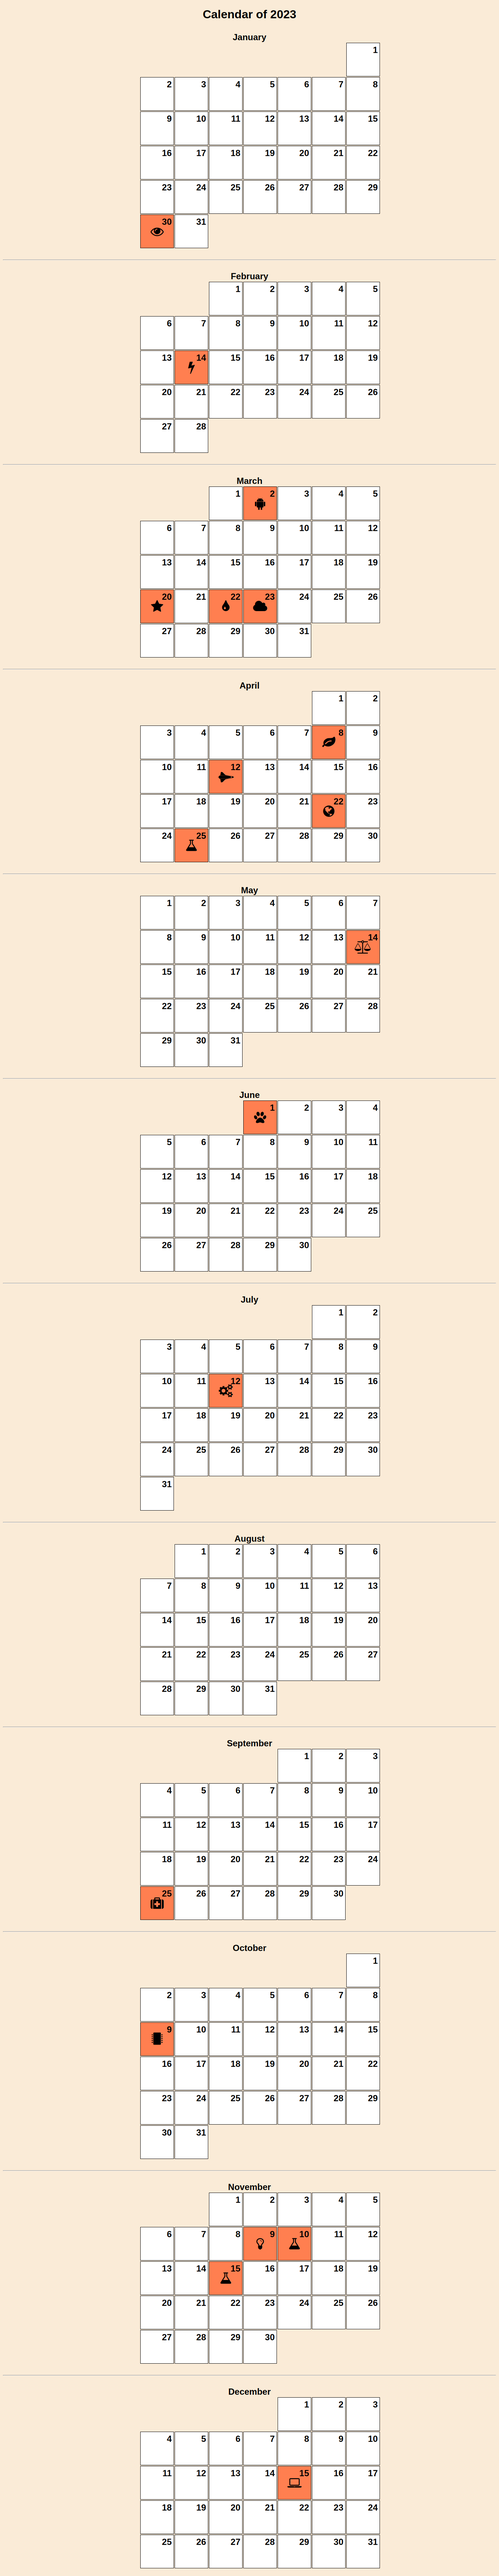
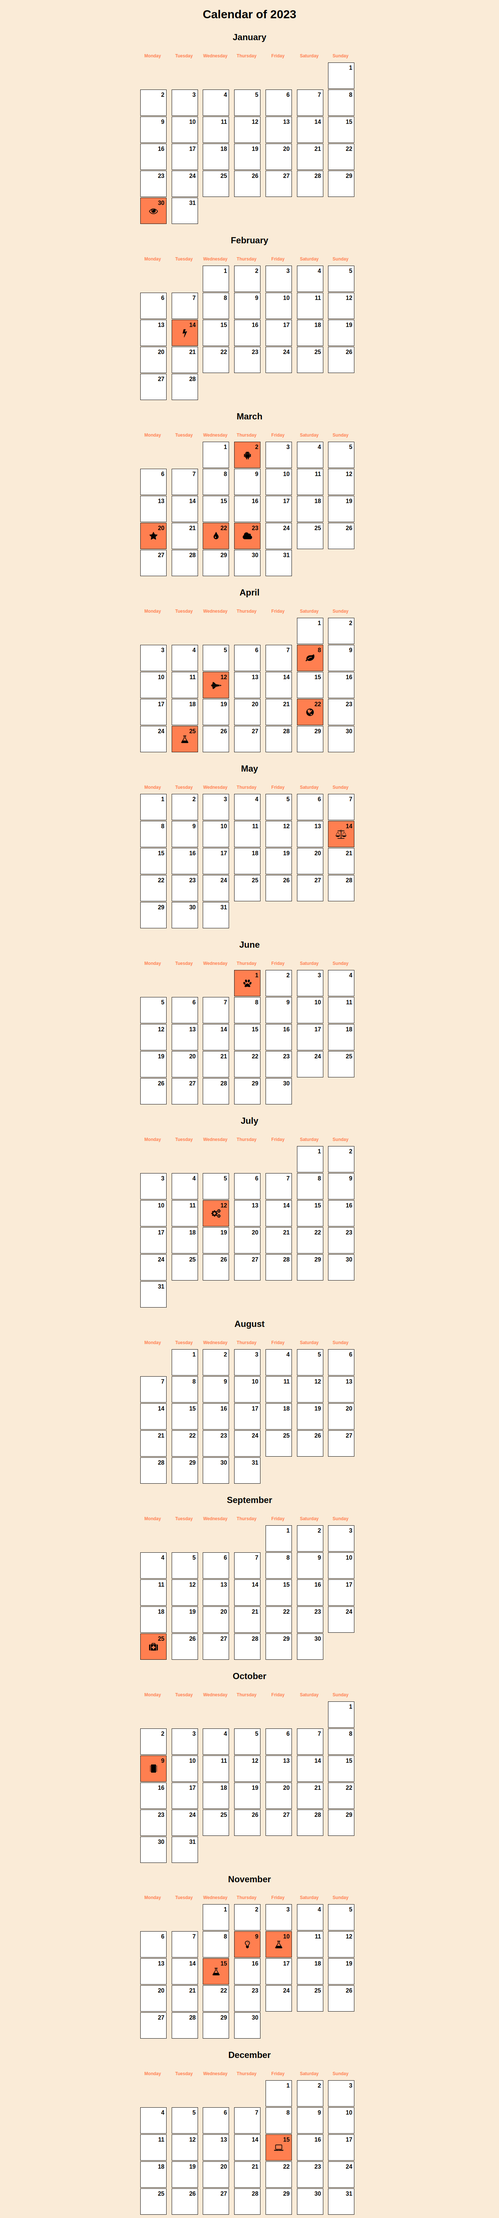
php exercicis

Changed region(s): [[0.2767, 0.0, 0.7687, 1.0]]

diff --git a/unitats/programacio/web/php/04-control-structures-ex-calendar.html b/unitats/programacio/web/php/04-control-structures-ex-calendar.html
@@ -151,6 +151,94 @@
             <vf-img src="assets/unitats/programacio/web/php/03-04-operators-control/calendar06.png"></vf-img>
 
         </vf-content>
+
+        <vf-title level="3">
+            Add icons
+        </vf-title>
+        <vf-content>
+            <vf-text>Now, we're going to add icon in a specific days about science. For do that we need a function get_specialday_from_day with a parameter $date where we receive a date in format dd-mm-yyyy.</vf-text>
+            <vf-text>This functions must has the list below, loop all the list and return the specific list if the date matches. If the loop ends and it has not return nothing, it must returns an empty text ''.</vf-text>
+            <vf-code>
+                $special_days = [
+                ['date' => '22-04-2023', 'icon' => 'fa-globe', 'description' => 'Día de la Tierra'],         
+                ['date' => '20-03-2023', 'icon' => 'fa-star', 'description' => 'Día de la Astronomía'],          
+                ['date' => '08-04-2023', 'icon' => 'fa-leaf', 'description' => 'Día de la Biología'],          
+                ['date' => '25-04-2023', 'icon' => 'fa-flask', 'description' => 'Día del ADN'],           
+                ['date' => '12-04-2023', 'icon' => 'fa-space-shuttle', 'description' => 'Día del Espacio'], 
+                ['date' => '15-12-2023', 'icon' => 'fa-laptop', 'description' => 'Día de la Informática'],        
+                ['date' => '22-03-2023', 'icon' => 'fa-tint', 'description' => 'Día del Agua'],          
+                ['date' => '09-11-2023', 'icon' => 'fa-lightbulb-o', 'description' => 'Día del Inventor'],   
+                ['date' => '10-11-2023', 'icon' => 'fa-flask', 'description' => 'Día del Científico'],          
+                ['date' => '14-02-2023', 'icon' => 'fa-bolt', 'description' => 'Día de la Energía'],          
+                ['date' => '14-05-2023', 'icon' => 'fa-balance-scale', 'description' => 'Día de la Física'], 
+                ['date' => '15-11-2023', 'icon' => 'fa-flask', 'description' => 'Día del Químico'],        
+                ['date' => '25-09-2023', 'icon' => 'fa-medkit', 'description' => 'Día del Medicamento'],       
+                ['date' => '02-03-2023', 'icon' => 'fa-android', 'description' => 'Día del Robot'],     
+                ['date' => '30-01-2023', 'icon' => 'fa-eye', 'description' => 'Día del Holograma'],          
+                ['date' => '23-03-2023', 'icon' => 'fa-cloud', 'description' => 'Día del Clima'],        
+                ['date' => '25-04-2023', 'icon' => 'fa-dna', 'description' => 'Día de la Genética'],          
+                ['date' => '12-07-2023', 'icon' => 'fa-cogs', 'description' => 'Día de la Robótica'],           
+                ['date' => '09-10-2023', 'icon' => 'fa-microchip', 'description' => 'Día de la Nanotecnología'],    
+                ['date' => '01-06-2023', 'icon' => 'fa-paw', 'description' => 'Día del Paleontólogo'],      
+            ];
+            </vf-code>
+            <vf-text>After that, in function show_days_month when we loop each day in a month, we must check with the above function if it is a special day. If it is you must do two things: add an extra class for the div of the day (special_day) and add an icon with the property icon of the special day:</vf-text>
+            <vf-code>
+                &lt;!-- You must upload DESCRIPTION with description of the special day and EXTRA_CLASS with the property icon--&gt;
+                &lt;i title='DESCRIPTION' class='icon_day fa EXTRA_CLASS'&gt;&lt;/i&gt;
+
+                &lt;!-- Remember to add this new line to head --&gt;
+                &lt;link rel="stylesheet" href="https://cdnjs.cloudflare.com/ajax/libs/font-awesome/4.7.0/css/font-awesome.min.css"&gt;
+            </vf-code>
+            <vf-img src="assets/unitats/programacio/web/php/03-04-operators-control/calendar07.png"></vf-img>
+
+        </vf-content>
+
+        <vf-title level="3">
+            Add styles to position elements properly
+        </vf-title>
+        <vf-content>
+            <vf-text>We need to position the number day on the top and right of the div regardless, and the icon in the center on the div.</vf-text>
+            <vf-text>For that we need to apply the div a position:relative, and the paragraph with the number and the icon, a position absolute and the position we want.</vf-text>
+            <vf-row>
+                <vf-col>
+                    <vf-text>Apply this styles to the div:</vf-text>
+                    <vf-code>
+                        position: relative;
+                    </vf-code>
+                </vf-col>
+                <vf-col>
+                    <vf-text>Apply this styles to the paragraph:</vf-text>
+                    <vf-code>
+                        position: absolute;
+                        top: 5px;
+                        right: 5px;
+                        margin: 0;
+                        font-weight: bold;
+                    </vf-code>
+                </vf-col>
+                <vf-col>
+                    <vf-text>Apply this styles to the icon:</vf-text>
+                    <vf-code>
+                        position: absolute;
+                        top: 50%;
+                        left: 50%;
+                        transform: translate(-50%, -50%);
+                        font-size: 150%;
+
+                    </vf-code>
+                </vf-col>
+            </vf-row>
+            <vf-img src="assets/unitats/programacio/web/php/03-04-operators-control/calendar08.png"></vf-img>
+
+        </vf-content>
+
+        <vf-title level="3">
+            Final exercise
+        </vf-title>
+        <vf-content>
+            <vf-text>Add the number of the days to every month before numbers.</vf-text>
+        </vf-content>
        
         <vf-title level="3">
             Final Result
